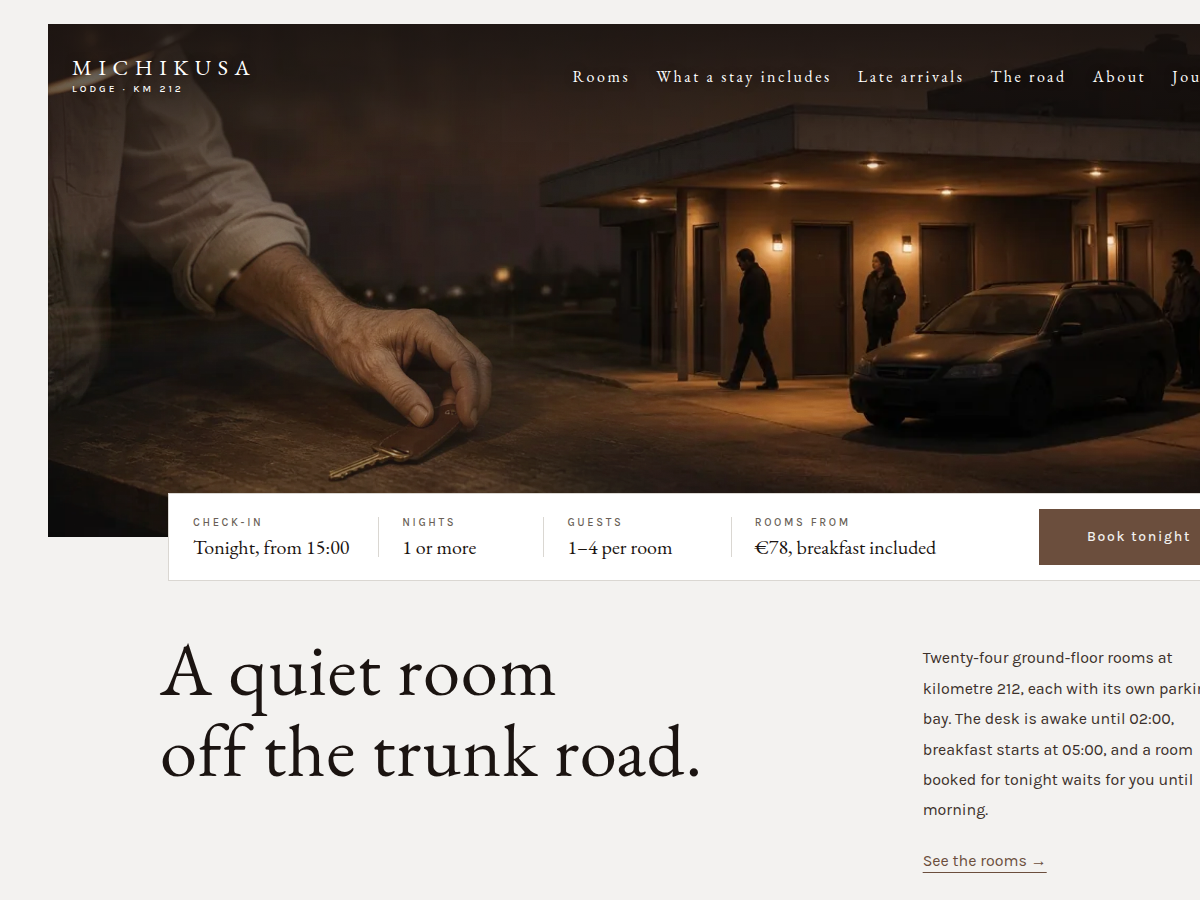
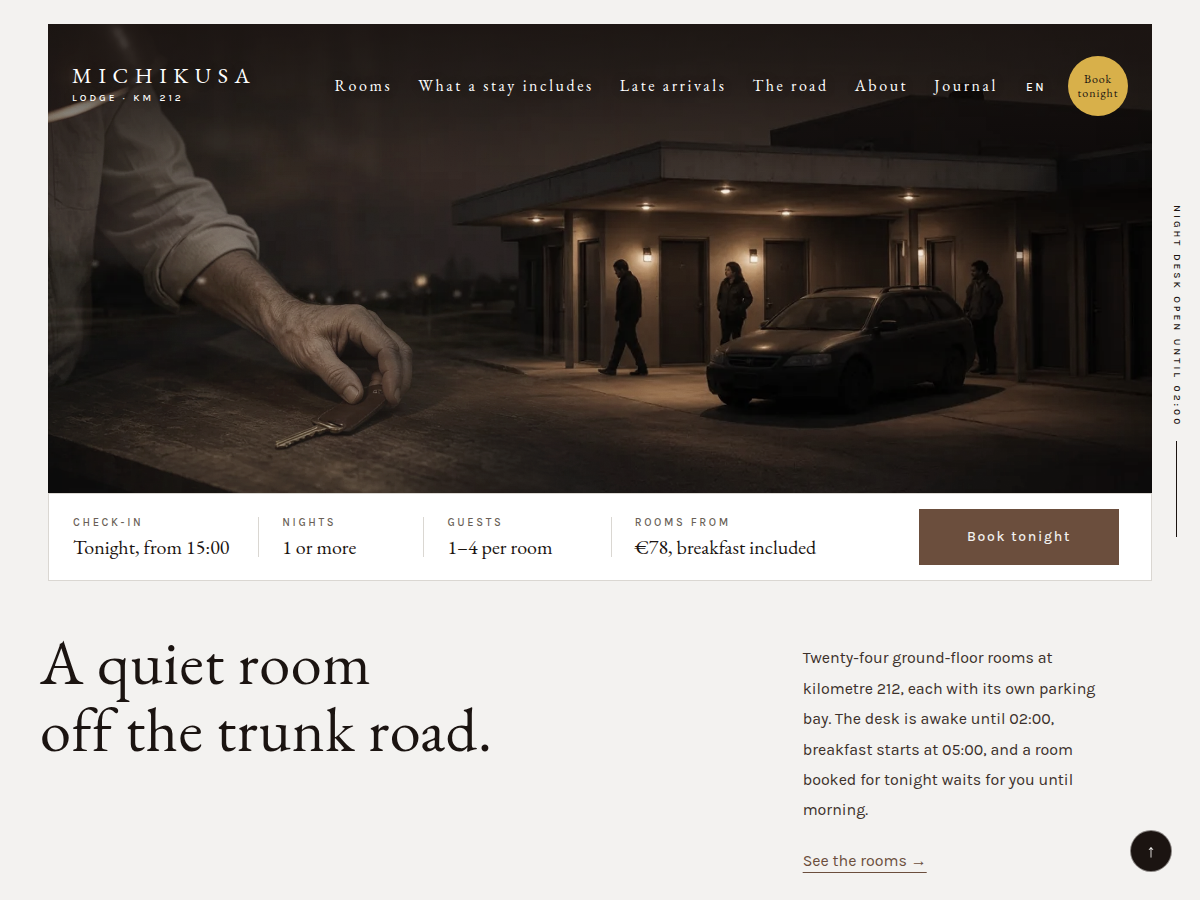
michikusa-lodge: stage-2 home fixes (first-screen saturation, back-to-top disc, road row spacing, mobile ledger/band, T3 width, copyright year, README, screenshot)

diff --git a/themes/michikusa-lodge/style.css b/themes/michikusa-lodge/style.css
@@ -102,7 +102,7 @@ body { -webkit-font-smoothing: antialiased; }
 .ml-window--inner { height: 360px; }
 .ml-layer { position: absolute; top: 0; bottom: 0; left: 0; right: 0; }
 .ml-layer .wp-block-image, .ml-layer .wp-block-image img { height: 100%; }
-.ml-layer .wp-block-image img { object-fit: cover; }
+.ml-layer .wp-block-image img { object-fit: cover; filter: saturate(.55); }
 .ml-base { --sp-par: 6%; }
 .ml-base .wp-block-image img { object-position: 60% 55%; }
 .ml-exposure { --sp-par: 10%; right: auto; width: 68%; mix-blend-mode: screen; }
@@ -167,7 +167,7 @@ body { -webkit-font-smoothing: antialiased; }
 .ml-t3 { display: grid; grid-template-columns: minmax(0, 700px) minmax(0, 1fr); column-gap: 135px; max-width: 1160px; margin: 0 auto; padding: 0 20px; box-sizing: border-box; }
 .ml-t3__img { aspect-ratio: 4 / 3; }
 .ml-t3__img img { aspect-ratio: 4 / 3; object-fit: cover; }
-.ml-drawwrap { margin: 40px 0 0 230px; max-width: 520px; }
+.ml-drawwrap { margin: 40px 0 0 180px; max-width: 520px; }
 .ml-draw { display: block; width: 100%; height: auto; }
 .ml-drawwrap.sp-reveal--wipe > .wp-block-html, .ml-drawwrap > svg { display: block; }
 .ml-t3__p { margin: 40px 0 0; max-width: 640px; line-height: 1.9; }
@@ -228,7 +228,9 @@ body { -webkit-font-smoothing: antialiased; }
 .ml-card__img img { aspect-ratio: 3 / 2; object-fit: cover; }
 .ml-card__l { margin: 16px 0 0; font-size: .6875rem; font-weight: 500; letter-spacing: .24em; text-transform: uppercase; color: var(--wp--preset--color--accent); }
 .ml-card__c { margin: 2px 0 0; font-family: var(--wp--preset--font-family--display); font-size: 1.125rem; color: var(--wp--preset--color--ink); }
-.ml-strip__ctl { display: flex; align-items: center; justify-content: space-between; margin-top: 32px; }
+.ml-strip__ctl { display: flex; align-items: center; justify-content: flex-start; margin-top: 32px; }
+.ml-strip__ctl .ml-dots { margin-left: auto; }
+.ml-roadrow { margin-top: 48px; }
 .ml-strip__ctl > .wp-block-html { display: block; }
 .ml-arrow { display: inline-flex; align-items: center; justify-content: center; width: 40px; height: 40px; margin-right: 10px; border: 1px solid var(--wp--preset--color--ink); border-radius: 50%; color: var(--wp--preset--color--ink); text-decoration: none; font-size: 1rem; transition: background-color .4s ease-out, color .4s ease-out; }
 .ml-arrow:hover { background: var(--wp--preset--color--ink); color: var(--wp--preset--color--mist); }
@@ -303,7 +305,14 @@ body { -webkit-font-smoothing: antialiased; }
 .ml-main .wp-block-query-pagination { margin-top: 40px; gap: 16px; }
 
 /* ==== Back to top (>=1024) ==== */
-@media (min-width: 1024px) { .ml-foot__top { position: static; } }
+.ml-top__a { display: none; }
+@media (min-width: 1024px) {
+	.ml-foot__top { margin: 0; }
+	.ml-foot__top a { position: fixed; right: 28px; bottom: 28px; z-index: 40; display: flex; align-items: center; justify-content: center; width: 40px; height: 40px; border-radius: 50%; background: var(--wp--preset--color--ink); color: var(--wp--preset--color--mist); border: 1px solid rgba(243, 242, 240, .5); text-decoration: none; transition: background-color .4s ease-out, color .4s ease-out; }
+	.ml-foot__top a:hover { background: var(--wp--preset--color--amber); color: var(--wp--preset--color--ink); }
+	.ml-top__a { display: block; font-size: 1.125rem; line-height: 1; letter-spacing: 0; }
+	.ml-top__t { position: absolute; width: 1px; height: 1px; overflow: hidden; clip: rect(0 0 0 0); white-space: nowrap; }
+}
 
 /* ==== Forms (scoped to plugin classes and the fallback) ==== */
 .sp-form-slot .sp-newsletter-fallback { display: grid; gap: 10px; }
@@ -364,14 +373,15 @@ body { -webkit-font-smoothing: antialiased; }
 	.ml-sec { padding: 72px 0; }
 	.ml-sec--lead { padding: 96px 0 72px; }
 	.ml-sec--late { padding-top: 24px; }
-	.ml-band .ml-band__h { padding: 0 16px; font-size: 1.25rem; letter-spacing: .2em; }
+	.ml-band .ml-band__h { max-width: calc(100% - 64px); padding: 0 14px; font-size: 1.125rem; letter-spacing: .2em; }
 	.ml-band::before { top: 11px; }
 	.ml-concept__mark { font-size: 2rem; letter-spacing: .14em; }
 	.ml-concept__p { font-size: 1.125rem; line-height: 2; }
 	.ml-t3 { padding: 0 20px; }
 	.ml-rooms__small { margin-left: 0; width: 220px; }
 	.ml-ledger__n { font-size: 1.5rem; }
-	.ml-ledger__row { flex-wrap: wrap; }
+	.ml-ledger__row { flex-wrap: nowrap; align-items: baseline; gap: 16px; }
+	.ml-ledger__main { min-width: 0; }
 	.ml-prices table, .ml-prices tbody, .ml-prices tr, .ml-prices td { display: block; width: 100%; }
 	.ml-prices td, .ml-prices td.ml-price, .ml-prices td:last-child { width: 100%; padding-left: 0; text-align: left; }
 	.ml-prices td:first-child { padding: 16px 0 2px; border-top: 1px solid var(--ml-line); }

diff --git a/themes/michikusa-lodge/patterns/footer-main.php b/themes/michikusa-lodge/patterns/footer-main.php
@@ -75,7 +75,7 @@
 <div class="wp-block-group ml-foot__bottom"><!-- wp:paragraph {"className":"ml-foot__copy"} -->
 <p class="ml-foot__copy"><?php echo esc_html( michikusa_lodge_t( 'foot_copy' ) ); ?></p>
 <!-- /wp:paragraph --><!-- wp:paragraph {"className":"ml-foot__copy ml-foot__top"} -->
-<p class="ml-foot__copy ml-foot__top"><a href="#top"><?php echo esc_html( michikusa_lodge_t( 'foot_top' ) ); ?></a></p>
+<p class="ml-foot__copy ml-foot__top"><a href="#top"><span class="ml-top__a" aria-hidden="true">↑</span><span class="ml-top__t"><?php echo esc_html( michikusa_lodge_t( 'foot_top' ) ); ?></span></a></p>
 <!-- /wp:paragraph --></div>
 <!-- /wp:group --></div>
 <!-- /wp:group --></div>

diff --git a/themes/michikusa-lodge/inc/i18n/en.php b/themes/michikusa-lodge/inc/i18n/en.php
@@ -33,7 +33,7 @@ return array(
 	'forms_mail_subject' => 'Road notes: please add me',
 	'foot_notes_l' => 'Road notes',
 	'foot_notes_p' => 'One letter a month: pass closures, road works, breakfast changes.',
-	'foot_copy' => '© 2027 Michikusa Lodge',
+	'foot_copy' => '© ' . gmdate( 'Y' ) . ' Michikusa Lodge',
 	'foot_top' => 'Back to top',
 	'alt_p02' => 'A dark estate car parked under a lit canopy outside a single-storey motor lodge at night.',
 	'alt_p01' => 'A man\'s hand places a brass key with a leather tag on a worn wooden counter.',

diff --git a/themes/michikusa-lodge/README.md b/themes/michikusa-lodge/README.md
@@ -1,0 +1,41 @@
+# Michikusa Lodge
+
+A quiet block theme (type hospitality) for a trunk-road motor lodge. Home page (English) in this release; inner pages and other languages follow.
+
+## Signature
+- Framed-window hero: an inset window holding two film-grain photographs laid over each other (double exposure), the menu and a round amber "Book tonight" disc on the photo, a booking bar docked on the window foot and the headline below on paper.
+- Double-hairline heading bands on every section heading.
+- Arrival hour: a 4:3 photograph with stacked time lines, a circle photograph and an amber single-stroke line drawing of the lodge.
+- Scroll-snap road strip, dawn breakfast band, hairline room ledger and price table.
+
+## Patterns
+- `front-arrival`
+- `front-book`
+- `front-breakfast`
+- `front-hero`
+- `front-lead`
+- `front-people`
+- `front-questions`
+- `front-road`
+- `front-rooms`
+- `front-stay`
+- `front-stories`
+
+## Fonts
+EB Garamond and Karla (SIL OFL 1.1), with Noto Serif TC and Noto Serif JP subsets for the Chinese and Japanese headings; licences in assets/fonts.
+
+## Images (AI-generated for this theme, no text or logos; assets/images/)
+- assets/images/p01-key-on-counter.webp
+- assets/images/p02-car-under-canopy.webp
+- assets/images/p03-night-clerk.webp
+- assets/images/p04-key-lockers.webp
+- assets/images/p05-driver-room.webp
+- assets/images/p06-twin-room.webp
+- assets/images/p07-breakfast-tray.webp
+- assets/images/p08-breakfast-counter.webp
+- assets/images/p09-trunk-road.webp
+- assets/images/p10-lake-layby.webp
+- assets/images/p11-bakery-window.webp
+- assets/images/p12-charging-canopy.webp
+- assets/images/p13-desk-team.webp
+- assets/images/p14-guest-walking.webp
